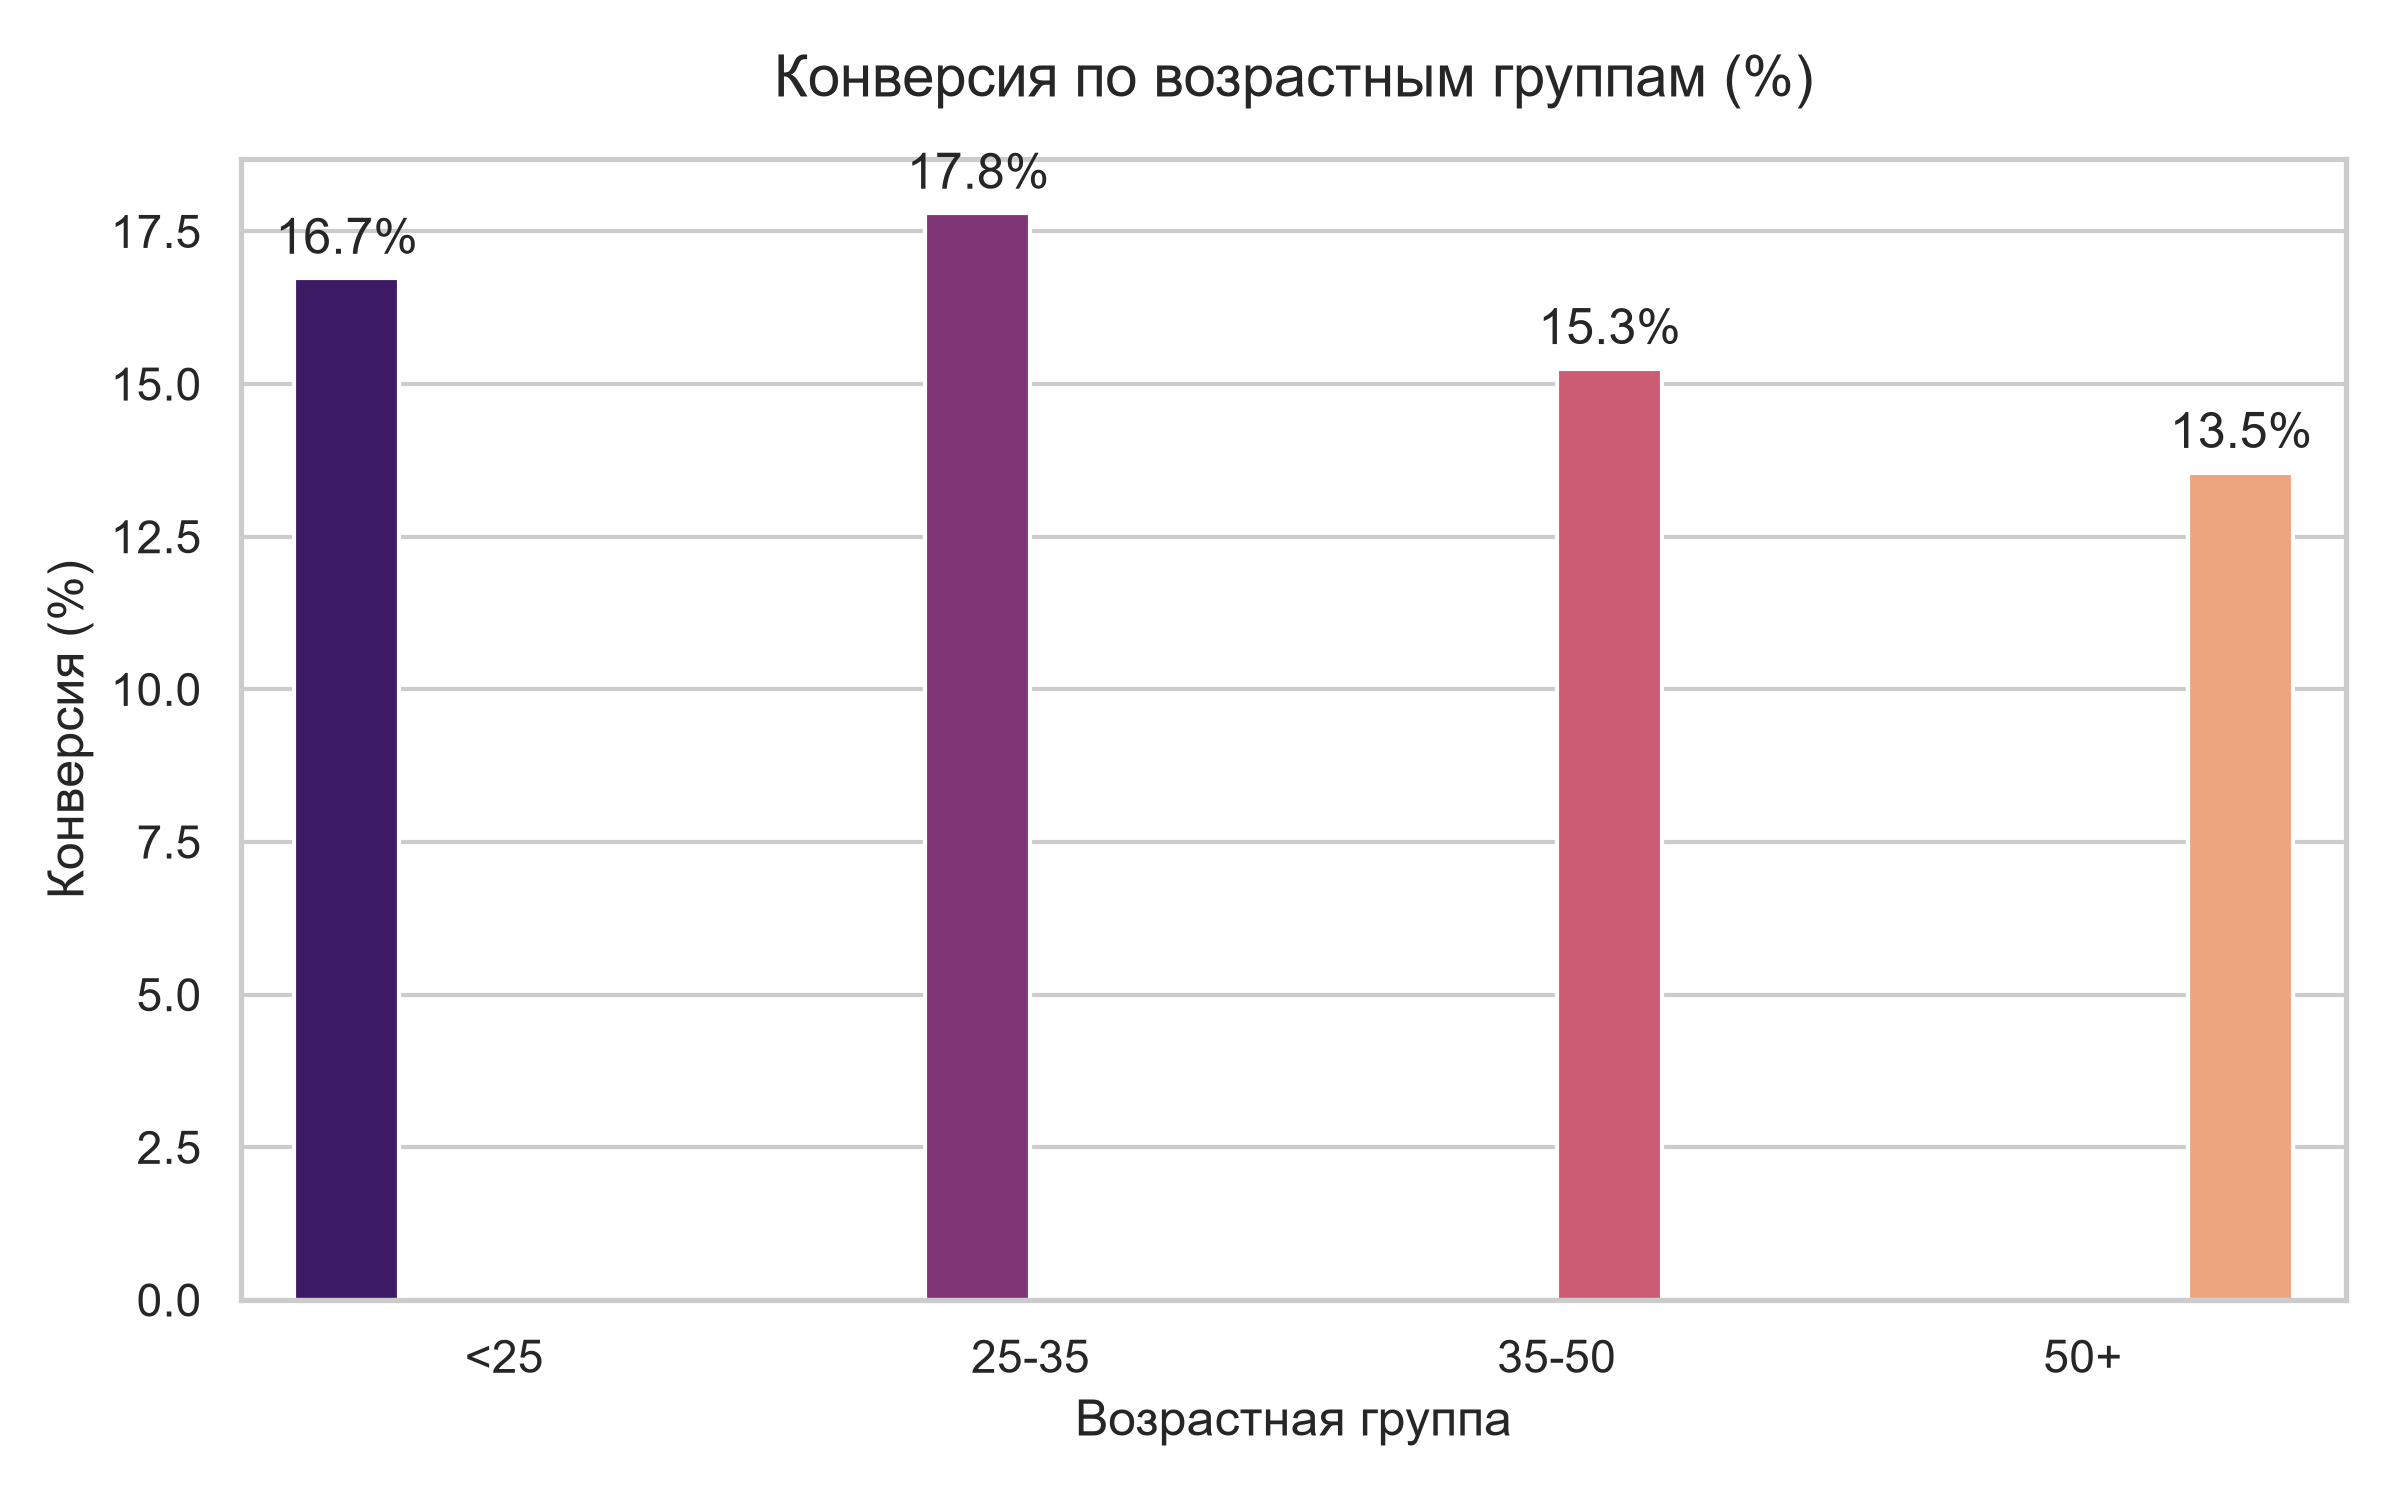
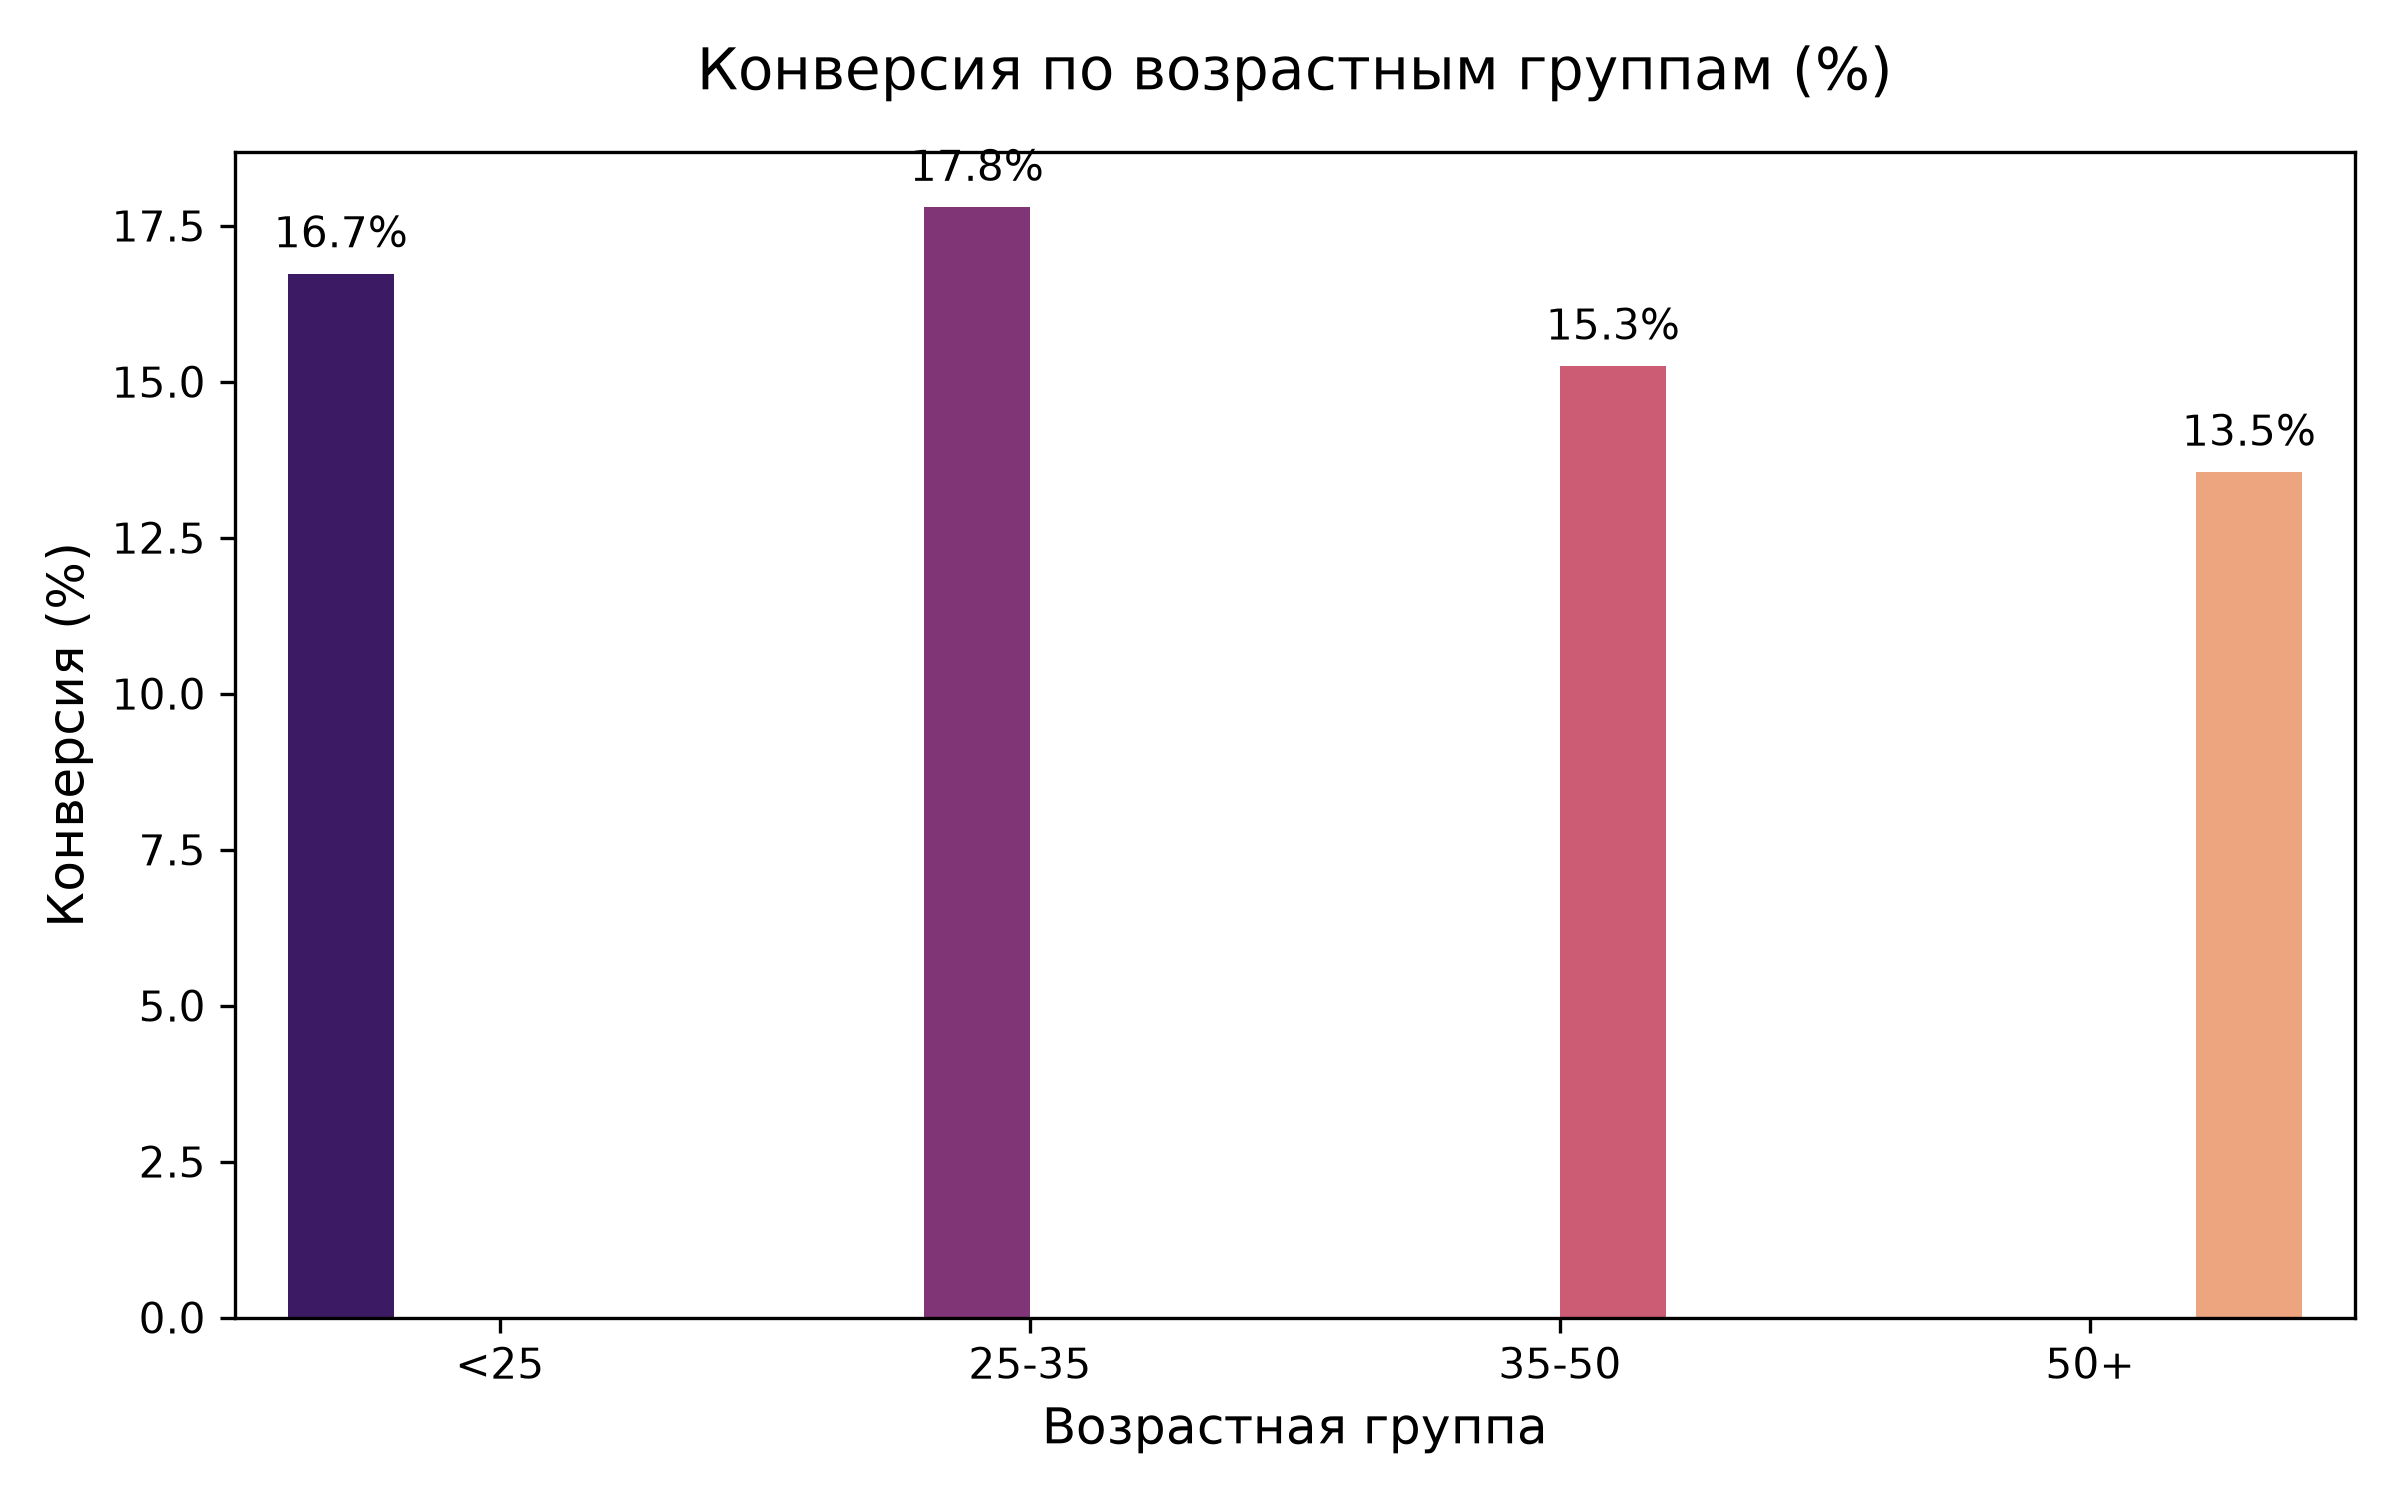
Final edits

diff --git a/README.md b/README.md
@@ -60,9 +60,6 @@
 ![Дашборд в DataLens](reports/figures/datalens_dashboard.png)
 
 ## Бизнес-рекомендации
-(дальше у тебя идет текст бизнес-рекомендаций, его оставляем как есть)
-
-## Бизнес-рекомендации
 
 1. **Делать акцент на discount-офферах.** Они дают наивысшую конверсию (17.6% против 13.8% у BOGO) и лучший Net Revenue ($1.53M против $1.47M). При этом затраты на награды у discount в 2 раза ниже ($51K против $113K).
 
